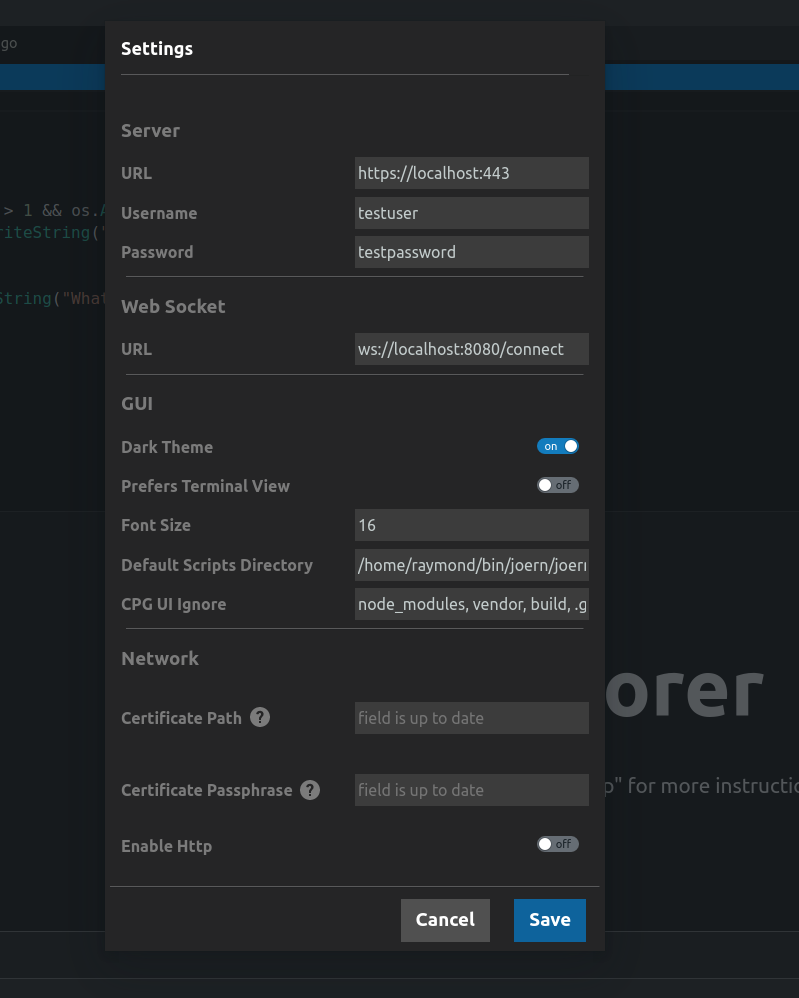
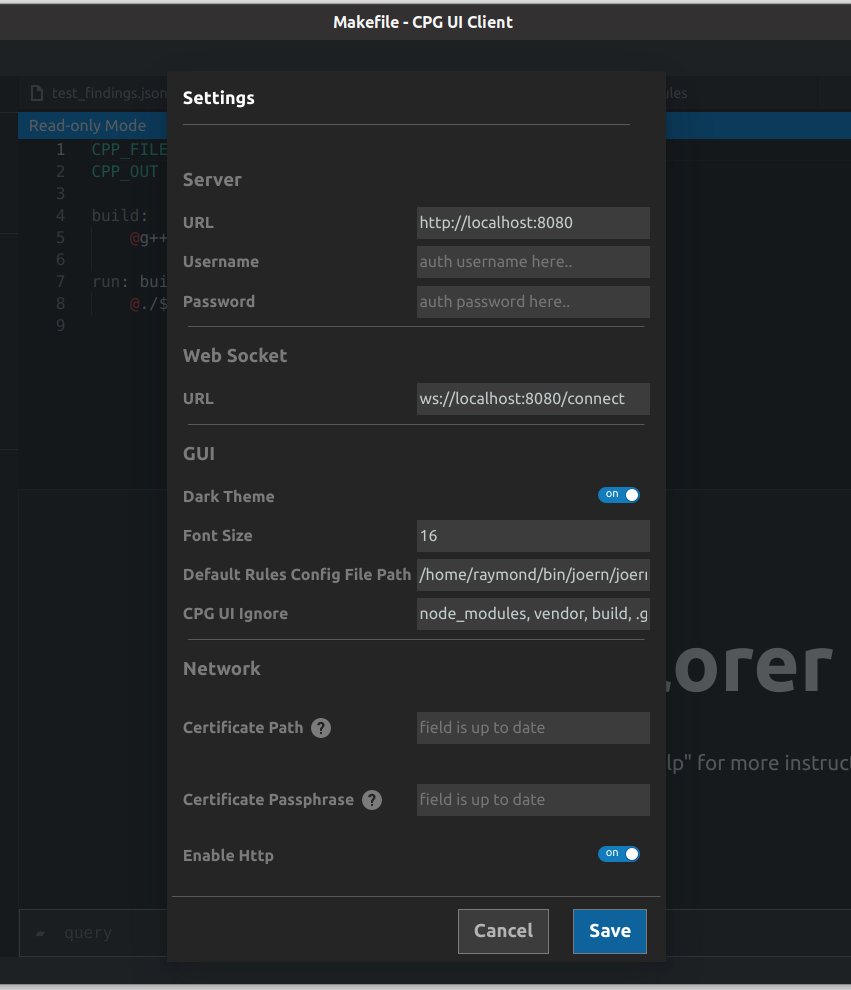
bumped package.json file version to v2.0.5

diff --git a/src/renderer/views/terminal_window/TerminalWindow.jsx b/src/renderer/views/terminal_window/TerminalWindow.jsx
@@ -134,7 +134,6 @@ function TerminalWindow(props) {
 
 	const {
 		terminalHeight,
-		prefersTerminalView,
 		isMaximized,
 		query_suggestions,
 		suggestion_dialog_open,
@@ -329,7 +328,7 @@ function TerminalWindow(props) {
 					[commonClasses.scrolledStyle]: scrolled,
 				})}
 			>
-				{prefersTerminalView ? (
+				{/* {prefersTerminalView ? (
 					<Icon
 						icon="application"
 						className={classes.terminalControlItemsStyle}
@@ -349,7 +348,7 @@ function TerminalWindow(props) {
 							})
 						}
 					/>
-				)}
+				)} */}
 
 				<Icon
 					icon="minus"

diff --git a/src/renderer/views/side_nav/SideNav.jsx b/src/renderer/views/side_nav/SideNav.jsx
@@ -354,7 +354,7 @@ function SideNav(props) {
 							}
 						/>
 
-						<h4>Prefers Terminal View</h4>
+						{/* <h4>Prefers Terminal View</h4>
 						<Switch
 							className={classes.switchStyle}
 							innerLabelChecked="on"
@@ -367,7 +367,7 @@ function SideNav(props) {
 							onBlur={e =>
 								handleSetState(handleOnChange(e, values))
 							}
-						/>
+						/> */}
 
 						<h4>Font Size</h4>
 						<input

diff --git a/docs/conf.py b/docs/conf.py
@@ -18,11 +18,11 @@
 # -- Project information -----------------------------------------------------
 
 project = 'Cpg UI Client'
-copyright = '2021, ShiftLeft Inc.'
+copyright = '2023, ShiftLeft Inc.'
 authors = 'Ndibe Raymond'
 
 # The full version, including alpha/beta/rc tags
-release = '1.1.0'
+release = '2.0.5'
 
 
 # -- General configuration ---------------------------------------------------

diff --git a/docs/Usage.rst b/docs/Usage.rst
@@ -8,21 +8,25 @@ Below is a labeled diagram of the main sections of CPG UI Client;
 
 1. File Menu
 2. Explorer section toggle control
-3. Scripts section
-4. Opened files section
-5. Workspace section
-6. Terminal section toggle control
-7. Settings modal toggle control
-8. Queries status section
-9. Explorer section
-10. Folders section
-11. Server connection status section
-12. Query input section
-13. Terminal view section
-14. Editor section
-15. Terminal hide control
-16. Terminal mode toggle control
+3. Query shortcut view
+4. Rules management view
+5. Rules results view
+6. Open editor section
+7. Workspace section
+8. Folders section
+9. Terminal section toggle control
+10. Settings modal toggle control
+11. Queries status section
+12. Explorer section
+13. Server connection status section
+14. Query input section
+15. Terminal view section
+16. Terminal hide control
 17. Terminal minimize/maximize control
+18. Editor section
+---------------------------------------
+19. AST graph Viewer
+20. Binary viewer
 
 
 
@@ -42,32 +46,31 @@ tools like importing code and switching workspace:
 
 This control button can be used to collapse and expand the whole explorer section.
 
-3. Scripts section
+3. Query Shortcut View
 ======================================================================
+The query shortcut view is used for the creation and management of your frequently used queries.
+This is especially useful to power-users who don't want to keep typing "cpg.method.name("main").dotAst.l" for example over and over again.
 
-This section is where all the scripts under the current default scripts folder are displayed.
-Scripts can be created, edited, and deleted through the editor but other files can only be viewed on the editor.
-* To further organize your scripts, you can add a special type of comment (e.g. //<tag>my new tag</tag>)
-  to your script files and the scripts will be organized according to the tag name added in the comment
+.. image:: ./query_shortcut_view.png
 
-.. image:: ./organised_scripts_section.png
-
-* Clicking on the "more" icon at the top right-hand side of the script section reveals a hidden menu through
-  which you can perform actions such as deleting selected scripts or changing the default scripts folder.
-
-.. image:: ./screenshot_scripts_context.png
-
-* you can select multiple scripts to delete by holding down the "ctrl" button and clicking on the scripts you want to select.
-* To delete a single script, right-click on the script to reveal the "delete" context menu
-
-4. Opened files section
+4. Rules Management View
 ======================================================================
+This is a nice UI for the rules we have in the rules-config.json (see settings). Here we can manage and execute rules.
 
+.. image:: ./rules_management.png
+
+5. Rules Results View
+======================================================================
+This view is used to view the results of rules executed inthe rules management view.
+
+.. image:: ./rules_result.png
+
+6. Open Editor Section
+======================================================================
 Here you will see all the files that are currently open in the editor. Clicking on a file makes it the active file on the editor
 
-5. Workspace section
+7. Workspace Section
 ======================================================================
-
 This section contains all the projects open in a particular workspace.
 * If the workspace does not contain any project, you will be asked to import a project.
 * Clicking on the "more" icon at the top right-hand side of the workspace section
@@ -79,38 +82,8 @@ This section contains all the projects open in a particular workspace.
 
 .. image:: ./screenshot_project_right_click.png
 
-
-6. Terminal section toggle control
+8. Folders Section
 ======================================================================
-
-This control determines if the terminal section should be hidden or visible.
-
-7. Settings modal toggle control
-======================================================================
-
-Clicking on this toggles the settings modal. In the settings, you can specify the URL (and WebSocket URL) to the backend you want the client to connect.
-You can also change things like server authentication, font size, theme, large folders to be ignored when rendering sections like the folder and scripts section.
-
-.. image:: ./screenshot_settings_page.png
-
-
-8. Queries status section
-======================================================================
-
-This indicates whether there is a currently running query or not, and how many queries have been run since the tool was opened.
-Hovering on this section reveals additional details showing all previously ran queries, status (pending or completed), and total time it took to run the query.
-
-.. image:: ./screenshot_status_section.png
-
-
-9. Explorer section
-======================================================================
-
-This section houses other sections like folder section, workspace section, etc.
-
-10. Folders section
-======================================================================
-
 This section is where the folder structure of the currently active project is displayed.
 * You can inspect the folders and files of the currently active project.
 * When you click on a file in the folder section, the file will be opened in the editor.
@@ -118,49 +91,74 @@ This section is where the folder structure of the currently active project is di
 
 .. image:: ./screenshot_switch_folder.png
 
-
-11. Server connection status section
+9. Terminal Section Toggle Control
 ======================================================================
+This control determines if the terminal section should be hidden or visible.
 
+10. Settings Modal Toggle Control
+======================================================================
+Clicking on this toggles the settings modal. In the settings, you can specify the URL (and WebSocket URL) to the backend you want the client to connect.
+You can also change things like server authentication, font size, theme, large folders to be ignored when rendering sections like the folder and scripts section.
+
+.. image:: ./screenshot_settings_page.png
+
+11. Queries Status Section
+======================================================================
+This indicates whether there is a currently running query or not, and how many queries have been ran since the tool was opened.
+Hovering on this section reveals additional details showing all previously ran queries, status (pending or completed), and total time it took to run the query.
+
+.. image:: ./screenshot_status_section.png
+
+12. Explorer Section
+======================================================================
+This section houses other sections like folder section, workspace section, etc.
+
+13. Server Connection Status Section
+======================================================================
 This section indicates the UI client's connection status to the server.
 * If the server with the server URL in the settings is not active, the connection status will be "failed" and queries won't work.
 * You can right-click on this section to manually connect and disconnect from the server
 
 .. image:: ./screenshot_connect_reconnect.png
 
-12. Query Input section
+14. Query Input Section
 ======================================================================
-
 Just like you can perform certain actions (like opening, closing, and importing projects)
 through the GUI alone without typing any queries, you can also choose to manually type your queries instead.
-* To type queries manually, this section is where input your manual queries (in the more terminal-like view, you input your queries in a terminal-like view instead)
+* To type queries manually, this section is where input your manual queries.
 * Queries and results will appear on top according to the order you ran them.
 
-13. Terminal view section
+15. Terminal View Section
 ======================================================================
+This is the place where you can view queries and their results.
 
-This is the place where you can view queries and their results (in the terminal-like view, this looks like a traditional terminal view)
-
-14. Editor section
+16. Terminal Hide Control
 ======================================================================
-
-This is the section where scripts can be viewed and edited. Other files that are not scripts can only be viewed here, the editor only allows read-only mode for those files.
-
-15. Terminal hide control
-======================================================================
-
 This controls whether the terminal section is visible or not.
 
-16. Terminal mode toggle control
+17. Terminal Minimize/Maximize Control
 ======================================================================
-
-With this, you can control the view of the terminal section.
-* If you prefer a more command line-like interface or a rich GUI mode, you can select it by toggling this control
-
-17. Terminal minimize/maximize control
-======================================================================
-
 As the name suggests, this can be used to minimize or maximize the terminal.
+
+18. Editor Section
+======================================================================
+This is the section where scripts can be viewed and edited. Other files
+that are not scripts can only be viewed here, the editor only allows read-only mode for those files.
+
+19. Ast Graph Viewer
+======================================================================
+this view opens when you run a query that returns ast graph, for example 'cpg.method.name("main").dotAst.l'.
+It is important that this graph has a root node or else it won't draw the graph.
+
+.. image:: ./ast_graph.png
+
+20. Binary Viewer
+======================================================================
+This view opens when you import a binary e.g. "/bin/curl" into your workspace.
+It decompiles the binary and gives you readable code.
+
+.. image:: ./binary_viewer.png
+
 
 
 Secure and Non-Secure Connections

diff --git a/docs/Intro.rst b/docs/Intro.rst
@@ -7,7 +7,7 @@ Analysts can:
 
 * manipulate workspaces and projects under them.
 
-* Run CPG queries in a command line-like terminal or a more user-friendly query execution component.
+* Run CPG queries in a user-friendly query execution terminal.
 
 * Create, delete, view, and edit scala scripts used to automate code analysis operations.
 
